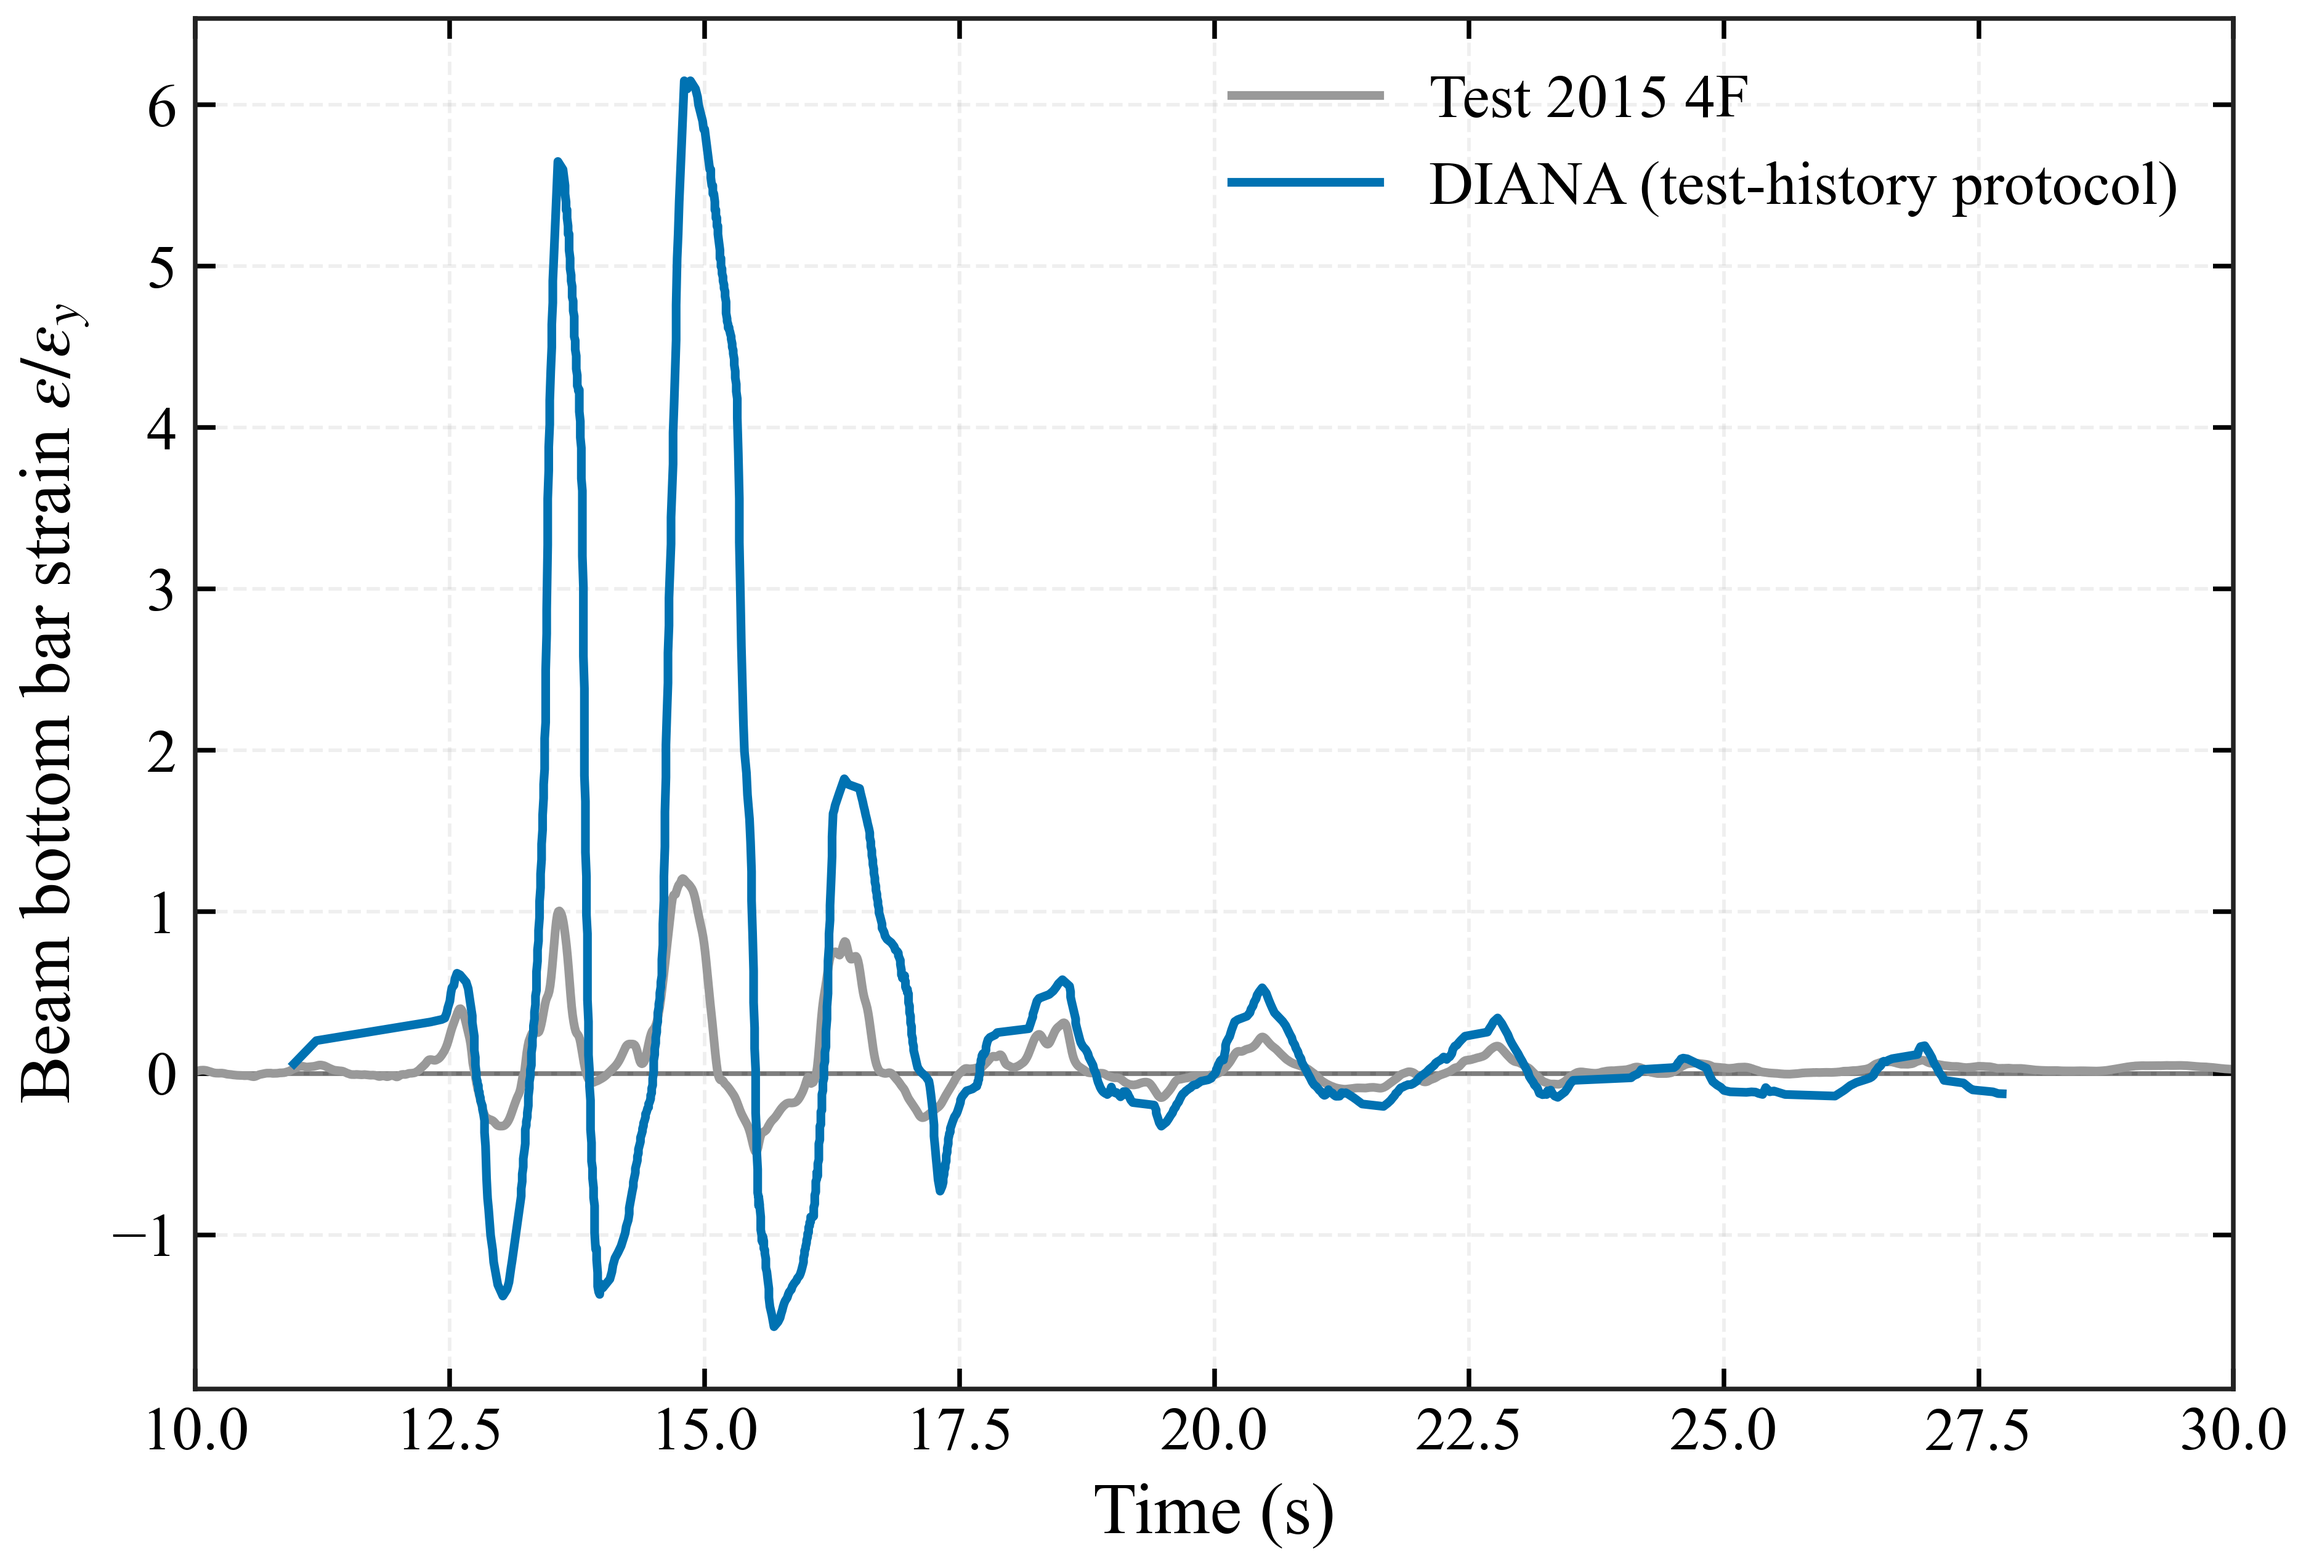
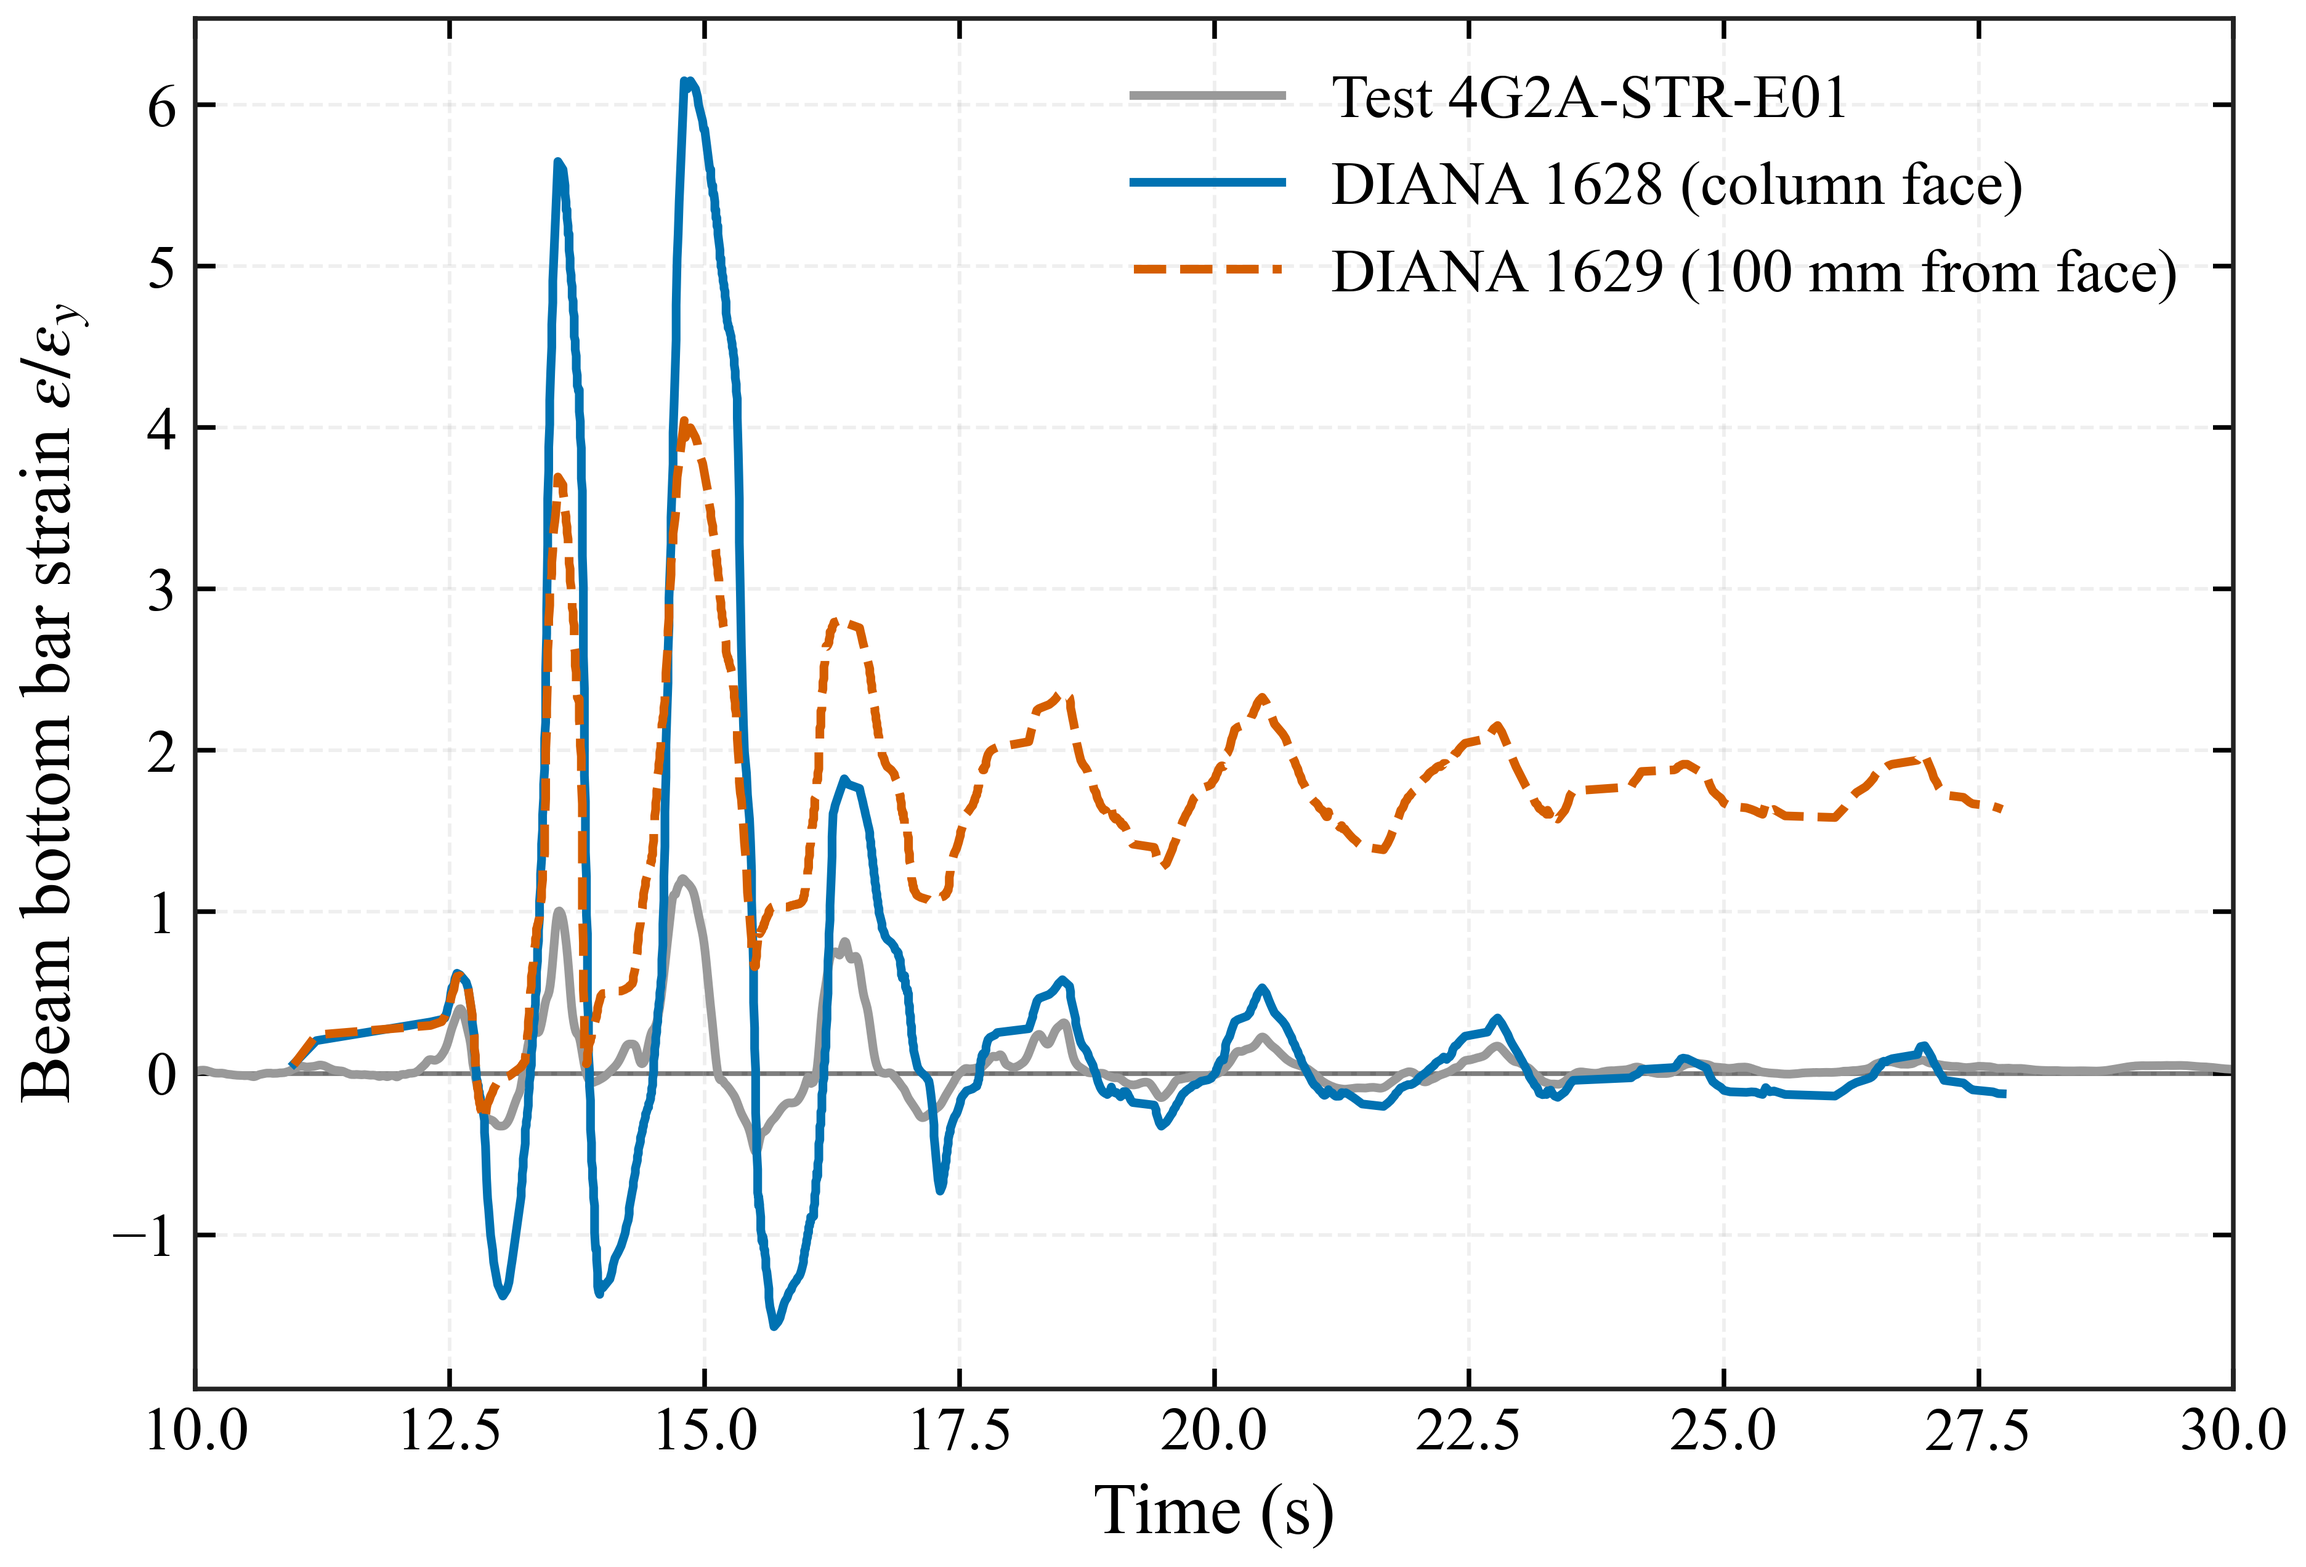
Compare bar strains at the test-figure gauge positions, face and +100 mm
The DIANA mesh is 100 mm and the 2015 gauge distance from the member
face is unknown, so each test gauge is now compared with the node at the
face and the node 100 mm away:
  08  4G2A-STR-E01 vs right-beam bottom bar, nodes 1628 / 1629
  09  4F2AC-STR-02 (the column gauge of the test figure) vs upper-column
      left bar, nodes 1839 / 1838 (new; previously the lower column)
  12  3F2AC-STR-18 vs lower-column right bar, node 1985 (reference)
Node 1838 (100 mm above the beam face) follows the test column gauge
closely, including the residual strain of about 2 εy after 17 s. Both
beam nodes overestimate the test peaks (about 6 and 4 vs 1.2 εy).

diff --git a/05_joint_models/comparison/code/python/plot_history_protocol_vs_test.py b/05_joint_models/comparison/code/python/plot_history_protocol_vs_test.py
@@ -10,18 +10,26 @@ measured reversal get the reversal time.  The mapping is written to
 Figures (``06_results/comparison/joint_4F_2015_history_protocol/``):
   07  joint deformation angle, test vs model, against time
   08  beam bar strain against time
-  09  column bar strain against time
+  09  column bar strain against time (upper column, test-figure position)
   10  story shear normalised by its own peak, against story drift
   11  normalised story shear against time
+  12  column bar strain against time (lower column, reference)
 
 The test reports the whole 4F story shear, the model one joint, so shear is
 compared only after dividing each by its own peak (shape, not magnitude).
-Bar strains: the DIANA points are the right-beam bottom bar and the lower-
-column right-face bar (DIANA right = test WEST).  The matching 2015 gauges,
-confirmed against the 6F joint layout of the published figure and the 2015
-plan, are the G2 east-end bottom bar 4G2A-STR-E01 and the 3F column-top west
-bar 3F2AC-STR-18.  They are read from the raw records with the same
-baseline/averaging as the 4F gauge survey; the model starts at 0.
+Bar strains (DIANA right = test WEST; gauge mapping in
+02_10-story_2015/REBAR_GAUGES.md).  The DIANA mesh is 100 mm, so each test
+gauge is compared with the node at the member face and the node 100 mm
+away; the gauge distance is unknown (about 50 mm for beams and 80 mm for
+columns in the 2018 drawing):
+  08  4G2A-STR-E01 (G2 east-end bottom bar)  vs right-beam bottom bar,
+      nodes 1628 (column face) and 1629 (100 mm into the beam)
+  09  4F2AC-STR-02 (4F column bottom, east)  vs upper-column left bar,
+      nodes 1839 (beam face) and 1838 (100 mm above)
+  12  3F2AC-STR-18 (3F column top, west)     vs lower-column right bar,
+      node 1985
+Test strains are read from the raw records with the same baseline and
+averaging as the 4F gauge survey; the model starts at 0.
 """
 
 from __future__ import annotations
@@ -44,12 +52,16 @@ from publication_style import COLORS, apply_style, figure_size, format_axis, ref
 from plot_history_vs_standard_protocol import read_response  # noqa: E402
 from survey_4f_joint_rebar_gauges import read_group  # noqa: E402
 
+sys.path.insert(0, str(WORKSPACE / "05_joint_models" / "diana_shell" / "code" / "python"))
+from prepare_cyclic_comparison_data import case_id, first_response_column, as_float, load_diana_rows  # noqa: E402
+
 CASE = "20151211-2(JMAKobe100%)"
 FLOOR = 4
 CONDITION = "origin_history"
 TEST_CSV = WORKSPACE / "06_results" / "archive" / "2026-07-30_before_cleanup" / "2015" / "python" / CASE / "csv"
 PROTOCOL = WORKSPACE / "05_joint_models" / "loading_protocols" / f"2015_{CASE}_{FLOOR}F"
 PROCESSED = WORKSPACE / "05_joint_models" / "diana_shell" / "data" / "processed" / CONDITION
+RAW = WORKSPACE / "05_joint_models" / "diana_shell" / "data" / "raw" / "origin_2015_history"
 OUTPUT = WORKSPACE / "06_results" / "comparison" / "joint_4F_2015_history_protocol"
 PLOT_CONFIG = WORKSPACE / "08_common" / "config" / "plot_config.json"
 TIME_WINDOW = (10.0, 30.0)
@@ -85,12 +97,24 @@ def map_steps_to_time(time: np.ndarray, drift: np.ndarray) -> dict[int, float]:
     return mapping
 
 
-def time_overlay(test_t, test_y, model_t, model_y, ylabel: str, name: str, mode: str) -> None:
+def diana_node(filename: str, node: int, steps: np.ndarray) -> np.ndarray:
+    """One node's response from a raw DIANA export, ordered like ``steps``."""
+    headers, rows = load_diana_rows(RAW / filename)
+    node_headers = [h for h in headers if f"node {node} " in h]
+    column = first_response_column(node_headers, rows)
+    by_step = {case_id(row): as_float(row[column]) for row in rows}
+    return np.asarray([by_step[int(step)] for step in steps])
+
+
+def time_overlay(test_t, test_y, model_t, model_y, ylabel: str, name: str, mode: str,
+                 test_label: str = TEST_LABEL, model_curves=None) -> None:
+    """Test against one model curve, or several given as (values, label) pairs."""
     fig, ax = plt.subplots(figsize=figure_size(mode))
     mask = (test_t >= TIME_WINDOW[0]) & (test_t <= TIME_WINDOW[1])
-    ax.plot(test_t[mask], test_y[mask], color="0.6", label=TEST_LABEL)
+    ax.plot(test_t[mask], test_y[mask], color="0.6", label=test_label)
     mask = (model_t >= TIME_WINDOW[0]) & (model_t <= TIME_WINDOW[1])
-    ax.plot(model_t[mask], model_y[mask], color=COLORS["primary"], label=MODEL_LABEL)
+    for (values, label), color, style in zip(model_curves or [(model_y, MODEL_LABEL)], ("C0", "C1", "C2"), ("-", "--", ":")):
+        ax.plot(model_t[mask], values[mask], color=color, linestyle=style, label=label)
     ax.axhline(0.0, **reference_line_kwargs(), zorder=0)
     ax.set_xlim(TIME_WINDOW)
     format_axis(ax, xlabel="Time (s)", ylabel=ylabel, legend=True)
@@ -112,18 +136,29 @@ def main() -> None:
     model = read_response(CONDITION)
     model_t = np.asarray([mapping[int(step)] for step in model["load_step"]])
     angle_t, angle = test_series("joint_rotation.csv", f"{FLOOR}F_rad")
-    beam_t, beam_series = read_group(5, range(6, 7))          # 4G2A-STR-E01
-    column_t, column_series = read_group(4, range(28, 29))    # 3F2AC-STR-18
-    beam = beam_series["4G2A-STR-E01"]
-    column = column_series["3F2AC-STR-18"]
+    beam_t, beam = read_group(5, range(6, 7))                    # 4G2A-STR-E01
+    upper_t, upper = read_group(6, range(2, 3))                  # 4F2AC-STR-02
+    lower_t, lower = read_group(4, range(28, 29))                # 3F2AC-STR-18
+    steps = model["load_step"]
     shear_t, shear = test_series("story_shear_y.csv", f"{FLOOR}F_kN")
 
     time_overlay(angle_t, angle, model_t, model["deformation_angle_rad"],
                  "Joint deformation angle (rad)", "07_joint_deformation_time_history", mode)
-    time_overlay(beam_t, beam, model_t, model["beam_strain"] / YIELD_STRAIN,
-                 r"Beam bottom bar strain $\epsilon/\epsilon_y$", "08_beam_bar_strain_time_history", mode)
-    time_overlay(column_t, column, model_t, model["column_strain"] / YIELD_STRAIN,
-                 r"Column bar strain $\epsilon/\epsilon_y$", "09_column_bar_strain_time_history", mode)
+    strain = r" $\epsilon/\epsilon_y$"
+    time_overlay(beam_t, beam["4G2A-STR-E01"], model_t, None, "Beam bottom bar strain" + strain,
+                 "08_beam_bar_strain_time_history", mode, "Test 4G2A-STR-E01", [
+                     (diana_node("EXX_node_1628.csv", 1628, steps) / YIELD_STRAIN, "DIANA 1628 (column face)"),
+                     (diana_node("EXX_node_1629.csv", 1629, steps) / YIELD_STRAIN, "DIANA 1629 (100 mm from face)"),
+                 ])
+    time_overlay(upper_t, upper["4F2AC-STR-02"], model_t, None, "Upper column bar strain" + strain,
+                 "09_column_bar_strain_time_history", mode, "Test 4F2AC-STR-02", [
+                     (diana_node("EZZ_nodes_1838_1839.csv", 1839, steps) / YIELD_STRAIN, "DIANA 1839 (beam face)"),
+                     (diana_node("EZZ_nodes_1838_1839.csv", 1838, steps) / YIELD_STRAIN, "DIANA 1838 (100 mm above)"),
+                 ])
+    time_overlay(lower_t, lower["3F2AC-STR-18"], model_t, None, "Lower column bar strain" + strain,
+                 "12_lower_column_bar_strain_time_history", mode, "Test 3F2AC-STR-18", [
+                     (diana_node("EZZ_node_1985.csv", 1985, steps) / YIELD_STRAIN, "DIANA 1985"),
+                 ])
 
     test_norm = shear / np.max(np.abs(shear))
     model_norm = model["story_shear_kN"] / np.max(np.abs(model["story_shear_kN"]))

diff --git a/06_results/comparison/joint_4F_2015_history_protocol/README.md b/06_results/comparison/joint_4F_2015_history_protocol/README.md
@@ -19,11 +19,14 @@
 `05_joint_models/diana_shell/data/processed/origin_history/step_time_map.csv`。
 
 - `07_joint_deformation_time_history.png`：节点变形角时程。
-- `08`、`09`：DIANA 右梁下筋（节点 1628）↔ 试验 **4G2A-STR-E01**（G2 东端下筋），DIANA 下柱右侧筋
-  （节点 1985）↔ 试验 **3F2AC-STR-18**（3F 柱头西侧）。DIANA 右 = 试验西；对应关系由论文 6F 节点
-  应变片图（G2 画在右侧）与原始数据最大值逐一比对确认（规则：梁 01/02 下筋、04/05 上筋；柱
-  01–10 柱脚、11–20 柱头），见 `06_results/experiment/2015/20151211-2(JMAKobe100%)/rebar_gauges_4F_joint/`。
-  试验应变直接从原始数据读取，按本工况前 1000 点做基线修正。
+- `08`、`09`、`12`：钢筋应变时程（DIANA 右 = 试验西；应变片对应见 `02_10-story_2015/REBAR_GAUGES.md`）。
+  DIANA 网格 100 mm，每个试验应变片同时与构件面处和距面 100 mm 处的节点比较
+  （2015 年应变片离面距离未知，2018 年同类布置为梁约 50 mm、柱约 80 mm）：
+  - `08`：试验 **4G2A-STR-E01**（G2 东端下筋）↔ DIANA 右梁下筋 1628（柱面）、1629（距柱面 100 mm）。
+  - `09`：试验 **4F2AC-STR-02**（4F 柱脚东侧，即试验图 chart_007 的柱筋）↔ DIANA 上柱左侧筋
+    1839（梁面）、1838（梁面以上 100 mm）。
+  - `12`：试验 3F2AC-STR-18（3F 柱头西侧）↔ DIANA 下柱右侧筋 1985，作参考。
+  试验应变直接从原始数据读取，按本工况前 1000 点做基线修正；模型从零开始。
   （此前用的 Col44 = 4G1A-STR-E01 位于**角柱**节点，已弃用。）
 - `10`、`11`：层剪力各自除以自身峰值后的滞回与时程。试验为 4F 整层剪力，模型为单个节点，
   只比较形状，不比较大小。
